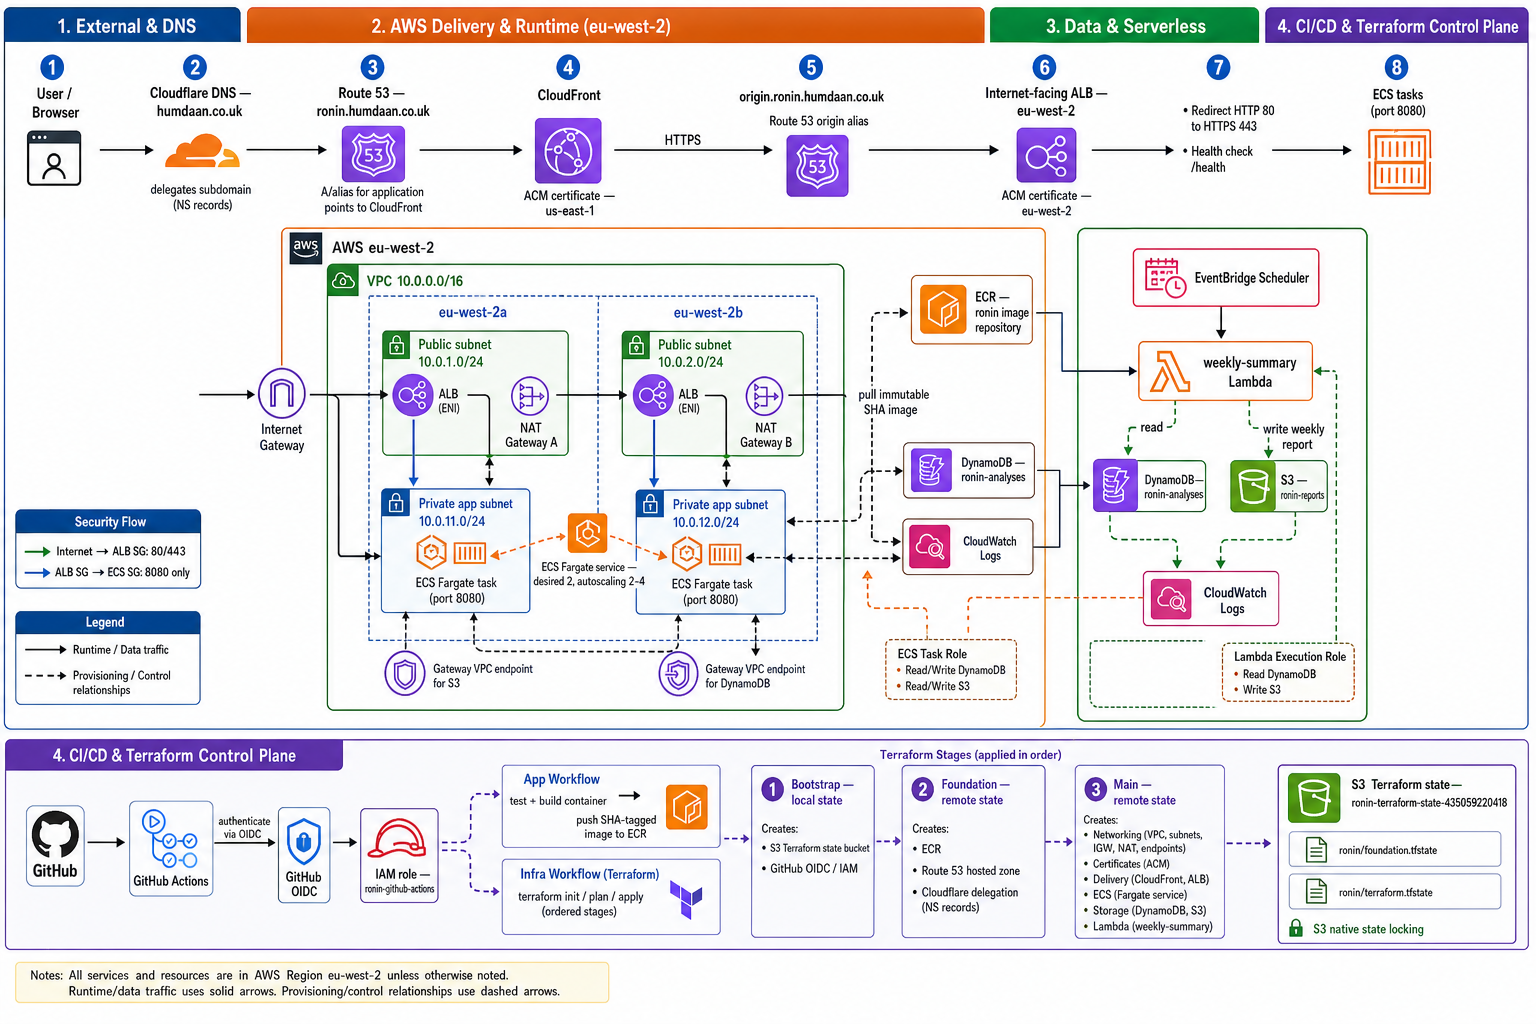
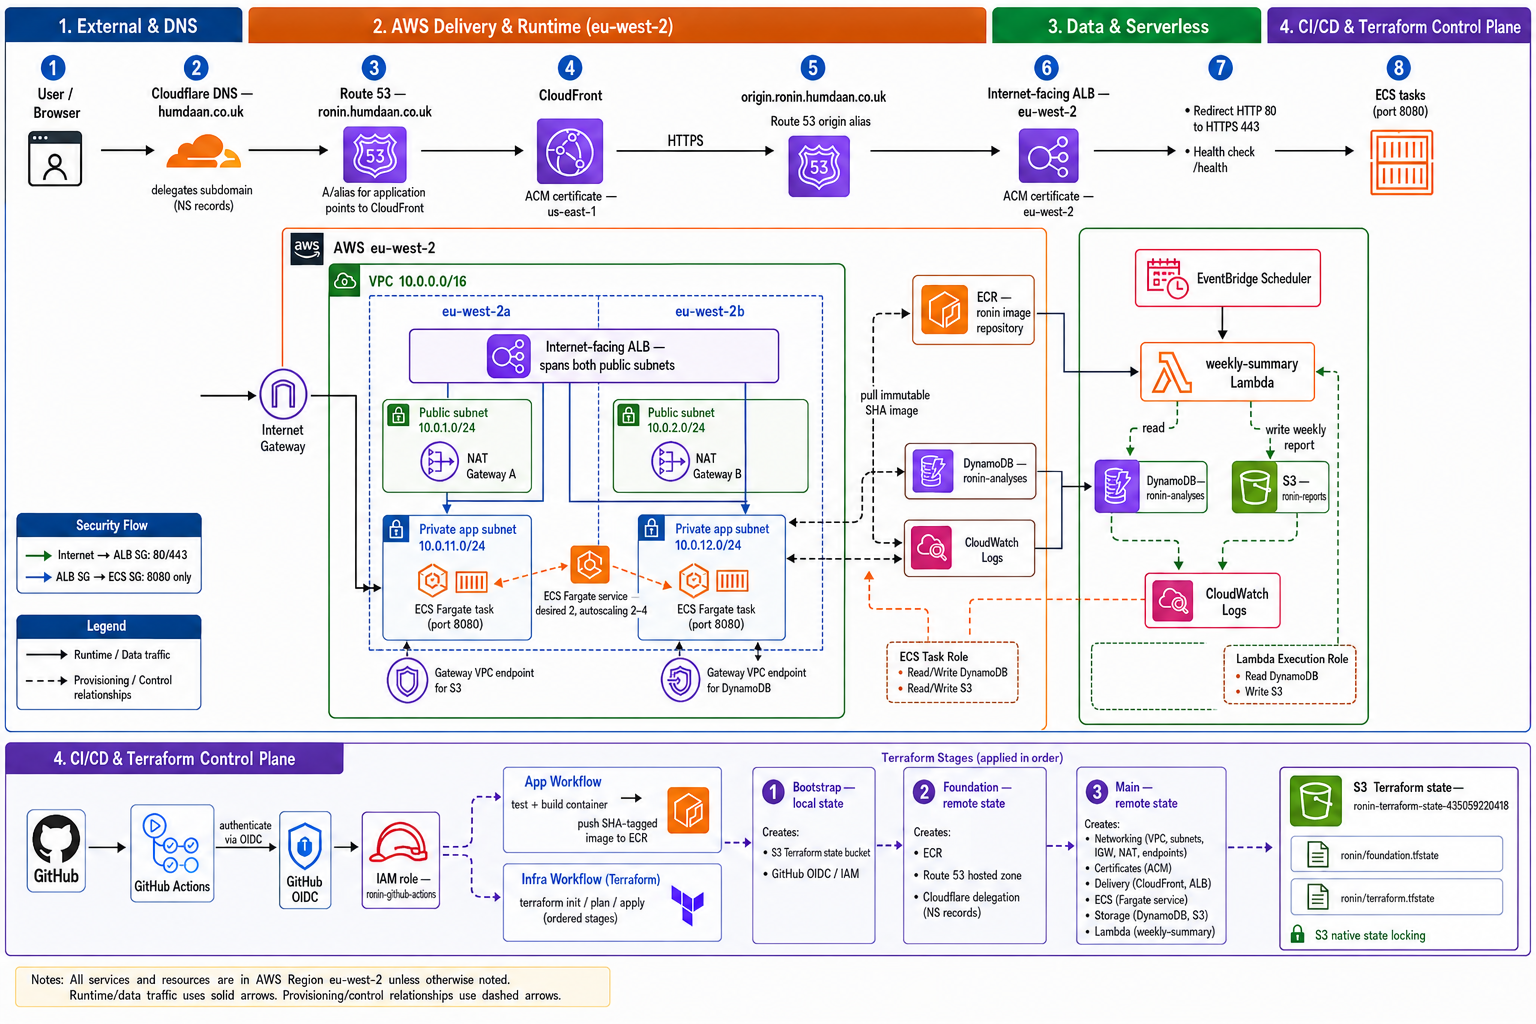
added a guide on lifecycle of a packet and updated readme and infra diagram

diff --git a/docs/notes/request-lifecycle.md b/docs/notes/request-lifecycle.md
@@ -1,0 +1,77 @@
+# RONIN Request Lifecycle
+
+This document follows a request from a user's browser to a RONIN container running on ECS Fargate.
+
+## Request path
+
+```text
+User
+  → Cloudflare DNS delegation
+  → Route 53 DNS
+  → CloudFront
+  → Route 53 origin DNS
+  → Application Load Balancer
+  → ECS Fargate task on port 8080
+```
+
+Cloudflare and Route 53 provide DNS answers. The web request does not pass through their DNS servers.
+
+## 1. The browser resolves the domain
+
+The user opens `https://ronin.humdaan.co.uk`.
+
+Cloudflare manages the parent domain, `humdaan.co.uk`. Four NS records in Cloudflare delegate the `ronin.humdaan.co.uk` subdomain to its Route 53 public hosted zone.
+
+Route 53 returns an alias A record pointing `ronin.humdaan.co.uk` to the CloudFront distribution. An alias is used because CloudFront does not have one fixed IP address for Terraform to store.
+
+## 2. The browser connects to CloudFront
+
+The browser connects to a nearby CloudFront edge location over HTTPS. CloudFront presents the ACM certificate for `ronin.humdaan.co.uk`, which is stored in `us-east-1` as required by CloudFront.
+
+CloudFront redirects HTTP visitors to HTTPS. It can cache requests for `/static/*`, while dynamic pages and API requests are forwarded to the origin.
+
+## 3. CloudFront finds the origin
+
+CloudFront's origin is `origin.ronin.humdaan.co.uk`. Route 53 has a second alias A record that points this name to the internet-facing ALB in `eu-west-2`.
+
+CloudFront starts a new HTTPS connection to the ALB. The ALB presents a separate ACM certificate for `origin.ronin.humdaan.co.uk`, stored in `eu-west-2`.
+
+The two encrypted connections are therefore:
+
+```text
+Browser  ── HTTPS ──> CloudFront
+CloudFront ── HTTPS ──> ALB
+```
+
+## 4. The ALB selects a healthy task
+
+The ALB runs across the two public subnets and accepts HTTPS traffic on port 443. Its target group contains the private IP addresses of the running Fargate tasks.
+
+The ALB regularly requests `/health` on port 8080 and only sends user traffic to healthy targets. It chooses a healthy task and forwards the request to that task over HTTP on port 8080.
+
+## 5. The request reaches Fargate
+
+The Fargate task runs in one of the two private application subnets and has no public IP address. Its security group accepts port 8080 only when the source is the ALB security group.
+
+This means an internet user cannot connect directly to a RONIN container. Public requests must pass through CloudFront and the ALB.
+
+The Gunicorn server inside the container receives the request on port 8080 and passes it to the Flask application. RONIN creates the response and returns it through the same application path:
+
+```text
+Fargate task → ALB → CloudFront → User
+```
+
+## Important distinction
+
+The NAT gateways are not part of this incoming request path. They allow tasks in private subnets to start outbound connections when required. S3 and DynamoDB gateway endpoints provide private routes to those AWS services.
+
+## DNS records involved
+
+| Location | Record | Purpose |
+|---|---|---|
+| Cloudflare | NS records | Delegate the RONIN subdomain to Route 53 |
+| Route 53 | Alias A: `ronin.humdaan.co.uk` | Direct users to CloudFront |
+| Route 53 | Alias A: `origin.ronin.humdaan.co.uk` | Direct CloudFront to the ALB |
+| Route 53 | ACM validation CNAME records | Prove control of both certificate names |
+
+In one sentence: Cloudflare delegates DNS to Route 53, Route 53 directs the user to CloudFront, CloudFront securely contacts the ALB, and the ALB forwards the request to a healthy private Fargate task on port 8080.

diff --git a/README.md b/README.md
@@ -53,23 +53,6 @@ Terraform is separated into three small stages because each stage provides somet
 2. **Foundation** creates ECR, the Route 53 hosted zone and Cloudflare delegation.
 3. **Main** creates the VPC, certificates, CloudFront, ALB, ECS, storage and reporting resources.
 
-## Project Structure
-
-```text
-RONIN/
-├── app/                    # Flask application
-├── infra/
-│   ├── bootstrap/          # State bucket and GitHub AWS access
-│   ├── foundation/         # ECR and DNS foundation
-│   └── modules/            # Main reusable AWS components
-├── .github/workflows/      # Build, deployment and destruction pipelines
-├── docs/
-│   ├── architecture/       # Architecture diagram and reasoning
-│   └── evidence/           # Application, AWS and pipeline screenshots
-├── Dockerfile              # Production container image
-└── run.py                  # Application entry point
-```
-
 ## CI/CD Pipelines
 
 GitHub Actions connects to AWS through OIDC, so long-lived AWS access keys are not stored in GitHub.
